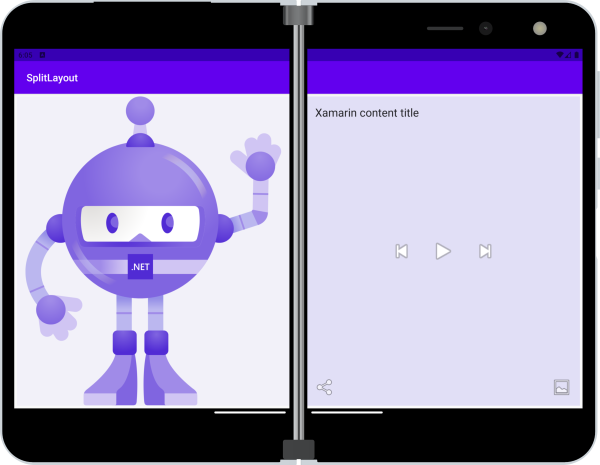
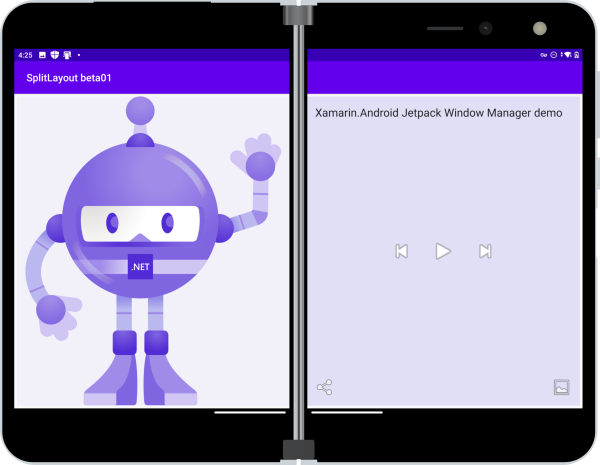
[SplitLayout] update to Jetpack Window Manager beta01

diff --git a/SplitLayout/SplitLayoutDemo/MainActivity.cs b/SplitLayout/SplitLayoutDemo/MainActivity.cs
@@ -4,7 +4,8 @@ using Android.Runtime;
 using Android.Util;
 using AndroidX.AppCompat.App;
 using AndroidX.Core.Util;
-using AndroidX.Window;
+using AndroidX.Window.Layout;
+using AndroidX.Window.Java.Layout;
 using Java.Lang;
 using Java.Util.Concurrent;
 
@@ -16,11 +17,15 @@ using Java.Util.Concurrent;
 namespace SplitLayoutDemo
 {
     /** Demo of [SplitLayout]. */
-    [Activity(Label = "@string/app_name", Theme = "@style/AppTheme", MainLauncher = true)]
+    [Activity(
+        Label = "@string/app_name", 
+        Theme = "@style/AppTheme", 
+        MainLauncher = true, 
+        Exported = true)]
     public class MainActivity : AppCompatActivity, IConsumer
     {
         const string TAG = "JWM"; // Jetpack Window Manager
-        WindowManager wm;
+        WindowInfoRepositoryCallbackAdapter wir;
         SplitLayout splitLayout;
 
         protected override void OnCreate(Bundle savedInstanceState)
@@ -32,19 +37,19 @@ namespace SplitLayoutDemo
 
             splitLayout = FindViewById<SplitLayout>(Resource.Id.split_layout);
 
-            wm = new WindowManager(this);
+            wir = new WindowInfoRepositoryCallbackAdapter(WindowInfoRepository.Companion.GetOrCreate(this));
         }
 
         public override void OnAttachedToWindow()
         {
             base.OnAttachedToWindow();
-            wm.RegisterLayoutChangeCallback(runOnUiThreadExecutor(), this);
+            wir.AddWindowLayoutInfoListener(runOnUiThreadExecutor(), this); // `this` is the IConsumer implementation
         }
 
         public override void OnDetachedFromWindow()
         {
             base.OnDetachedFromWindow();
-            wm.UnregisterLayoutChangeCallback(this);
+            wir.RemoveWindowLayoutInfoListener(this);
         }
 
         public void Accept(Java.Lang.Object newLayoutInfo)  // Object will be WindowLayoutInfo

diff --git a/SplitLayout/SplitLayoutDemo/SplitLayout.cs b/SplitLayout/SplitLayoutDemo/SplitLayout.cs
@@ -3,7 +3,8 @@ using Android.Graphics;
 using Android.Util;
 using Android.Views;
 using Android.Widget;
-using AndroidX.Window;
+using AndroidX.Window.Layout;
+using Java.Interop;
 using System.Linq;
 
 namespace SplitLayoutDemo
@@ -119,7 +120,7 @@ namespace SplitLayoutDemo
             var df = windowLayoutInfo.DisplayFeatures.FirstOrDefault();
             if (IsValidFoldFeature(df))
             {
-                var feature = df as FoldingFeature;
+                var feature = df.JavaCast<IFoldingFeature>();
                 var it = SampleTools.GetFeaturePositionInViewRect(df, this);
 
                 if (feature.Bounds.Left == 0)
@@ -183,7 +184,8 @@ namespace SplitLayoutDemo
 
         bool IsValidFoldFeature(IDisplayFeature displayFeature)
         {
-            if (displayFeature is FoldingFeature ff)
+            var ff = displayFeature.JavaCast<IFoldingFeature>();
+            if (ff != null)
             {
                 return SampleTools.GetFeaturePositionInViewRect(ff, this) != null;
             }

diff --git a/SplitLayout/SplitLayoutDemo/SampleTools.cs b/SplitLayout/SplitLayoutDemo/SampleTools.cs
@@ -2,6 +2,7 @@
 using Android.Views;
 using Android.Widget;
 using AndroidX.Window;
+using AndroidX.Window.Layout;
 
 namespace SplitLayoutDemo
 {

diff --git a/SplitLayout/README.md b/SplitLayout/README.md
@@ -1,12 +1,12 @@
 # Xamarin SplitLayout demo
 
-C# port of the **SplitLayout** demo from the Android user-interface-samples repo [WindowManagerSample](https://github.com/android/user-interface-samples/tree/main/WindowManager/app/src/main/java/com/example/windowmanagersample).
+C# port of the **SplitLayout** demo from the Android user-interface-samples repo [WindowManagerSample](https://github.com/android/user-interface-samples/tree/main/WindowManager/app/src/main/java/com/example/windowmanagersample), using the [Xamarin.AndroidX.Window-1.0.0.1-beta01 NuGet](https://www.nuget.org/packages/Xamarin.AndroidX.Window/).
 
-There is a port of a sample that displays Window Manager metrics in the [Surface Duo samples repo](https://github.com/microsoft/surface-duo-sdk-xamarin-samples/tree/crdun/jetpack-window-manager-alpha/WindowManager).
+There is a port of a sample from Google's [user-interface-samples repo](https://github.com/android/user-interface-samples/blob/main/WindowManager/app/src/main/java/com/example/windowmanagersample/SplitLayout.kt), along with C# code from the Jetpack Window Manager sample in the [Xamarin samples repo](https://github.com/microsoft/surface-duo-sdk-xamarin-samples/tree/crdun/jetpack-window-manager-alpha/WindowManager).
 
 ![Surface Duo running split layout demo app](Screenshots/xamarin-splitlayout-demo.png)
 
 ## Related links
 
-- [Xamarin docs](https://docs.microsoft.com/dual-screen/xamarin/)
+- [Xamarin dual-screen docs](https://docs.microsoft.com/dual-screen/xamarin/)
 - [Surface Duo Xamarin samples](https://github.com/microsoft/surface-duo-sdk-xamarin-samples)
